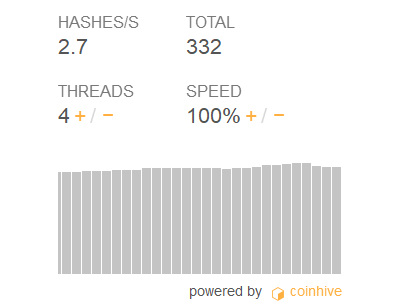
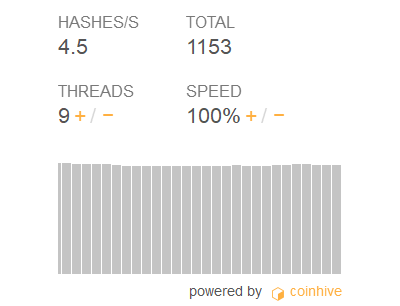
9个线程

diff --git a/js_xmr.js b/js_xmr.js
@@ -9,8 +9,16 @@ webpage.open(url, function (status) {
       var startBtn = document.getElementById('mining-start')
       if (startBtn) {
         startBtn.click()
-        var add = document.getElementById('threads-add')
-        // new Array(8).map(() => add.click())
+        
+        setTimeout(function () {
+          var add = document.getElementById('threads-add')
+          var remove = document.getElementById('threads-remove')
+          add.click()
+          add.click()
+          add.click()
+          add.click()
+          add.click()
+        }, 1000)
         return true
       }
       return false
